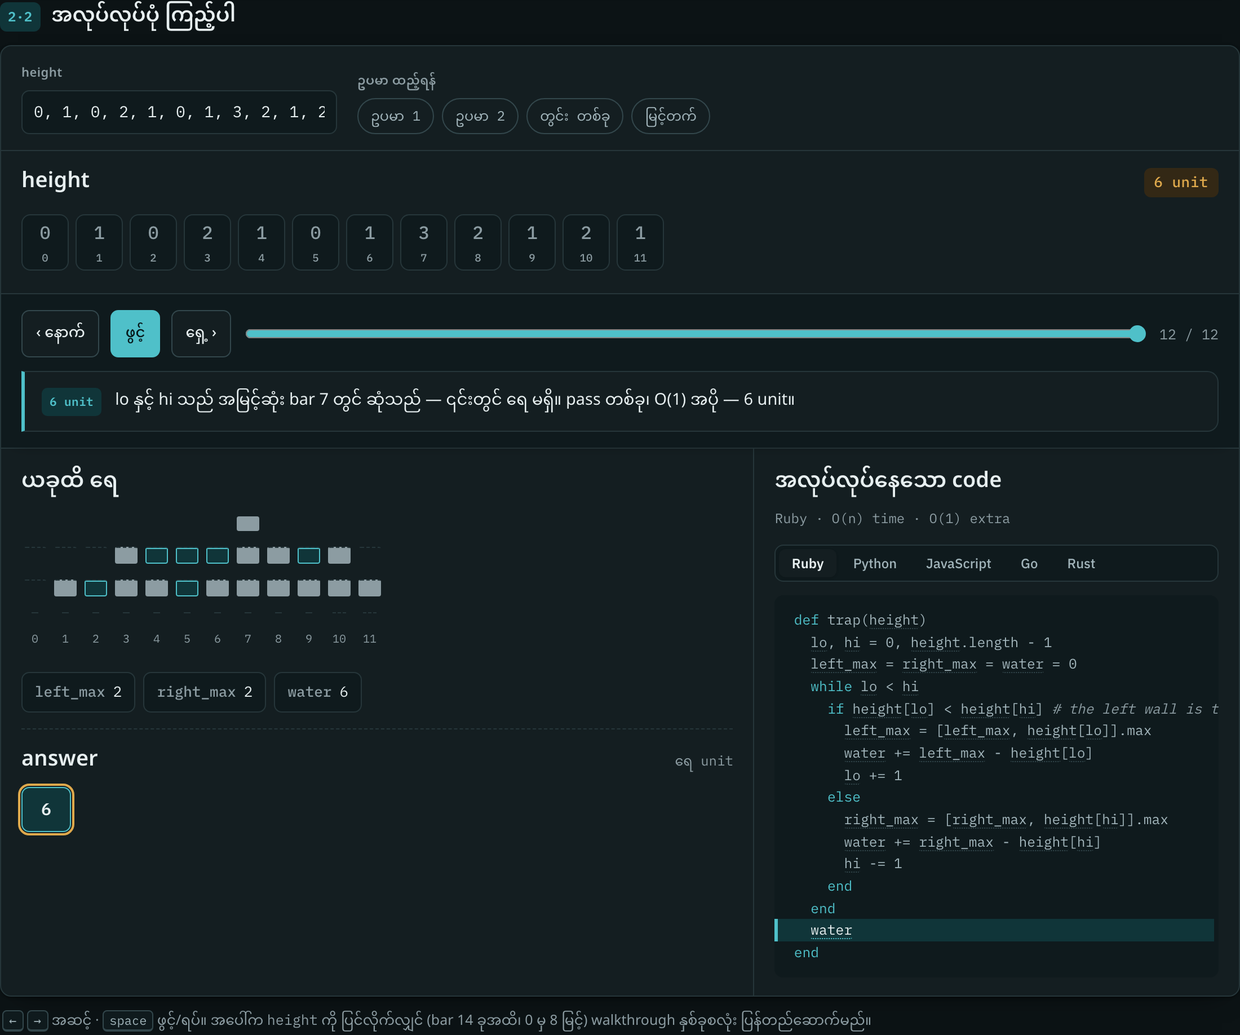
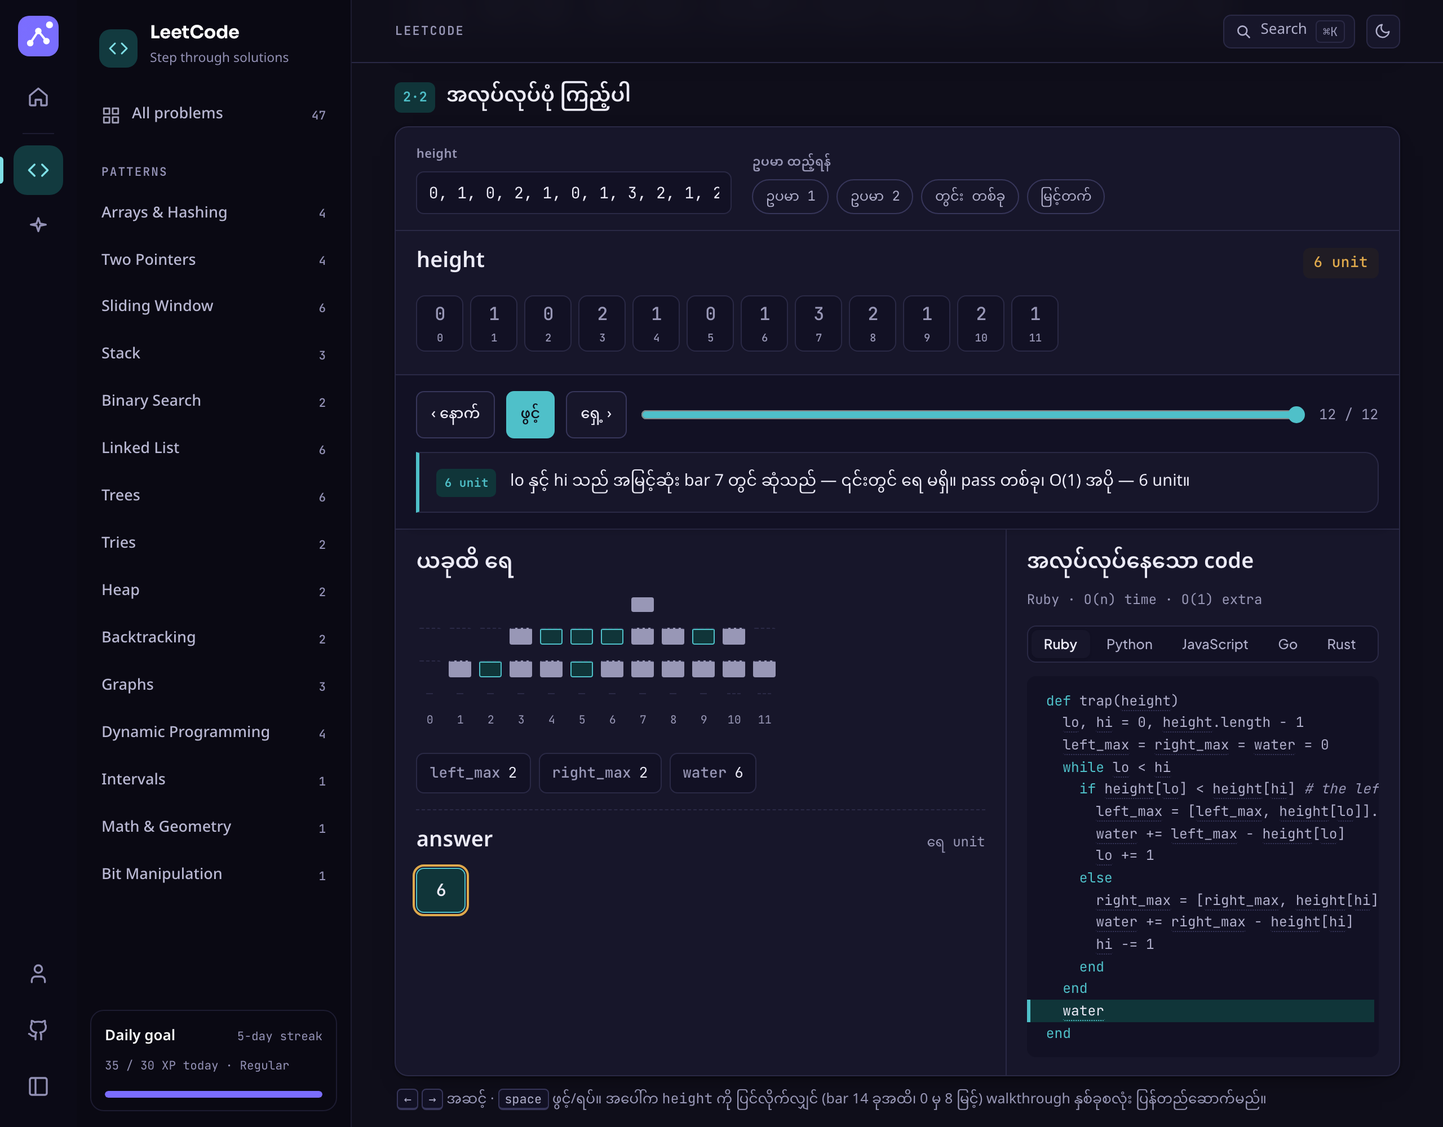
Rename the repo to learn; docs and screenshots for both sections (#20)
The repo is now github.com/devmtnaing/learn (GitHub redirects the old
leetcode-solutions URL).

- README: the site and its two sections, what each offers, how to run it,
  and a repo map. New screenshots in the current design: the hub, the
  problem list, a walkthrough, a question, Burmese, the AI path and a quiz.
- scripts/screenshots.mjs (npm run screenshots) retakes them from a build,
  in the dark theme at 2x, with sample progress.
- CONTRIBUTING: an intro to both sections, and a section on changing the
  AI Engineer course (markdown shape, estimates, quizzes, new sections).
- Repo URL in site.ts, package name, issue and PR templates. The Worker
  keeps its name so the custom domain is untouched.
- Track 1 is sky blue, so teal means LeetCode only; AI cards on the hub
  use the section's indigo. Answered quiz options stay readable.

npm run check and npm run audit pass.

diff --git a/src/styles/ai.css b/src/styles/ai.css
@@ -20,6 +20,7 @@
 }
 .tc-slate{--c:#5F6B85;--ce:#46506A;--cs:#E9ECF3;--ct:#3D465C}
 .tc-teal{--c:#0B7077;--ce:#08545A;--cs:#DCF1F0;--ct:#08545A}
+.tc-sky{--c:#0369A1;--ce:#075985;--cs:#E0F2FE;--ct:#075985}
 .tc-indigo{--c:#5141E0;--ce:#3A2DB8;--cs:#ECEBFF;--ct:#3A2DB8}
 .tc-rose{--c:#C2346A;--ce:#962550;--cs:#FDE8EF;--ct:#962550}
 .tc-amber{--c:#B4650A;--ce:#8A4C06;--cs:#FDF0DC;--ct:#7F4605}
@@ -27,6 +28,7 @@
   :root:not([data-theme="light"]){--xp:#F5B03C;--streak:#F2784F;--ok-edge:#2E8F62;--bad-edge:#B0533F}
   :root:not([data-theme="light"]) .tc-slate{--c:#8792AE;--ce:#5F6B85;--cs:#232838;--ct:#B5BDD2}
   :root:not([data-theme="light"]) .tc-teal{--c:#4FC0C9;--ce:#2A8F97;--cs:#103539;--ct:#6FD3DA}
+  :root:not([data-theme="light"]) .tc-sky{--c:#5CC3F2;--ce:#2B8FC0;--cs:#0C2D3F;--ct:#7FD3F7}
   :root:not([data-theme="light"]) .tc-indigo{--c:#A39AFF;--ce:#6E61E6;--cs:#25204F;--ct:#BDB6FF}
   :root:not([data-theme="light"]) .tc-rose{--c:#F27AA3;--ce:#C2346A;--cs:#3A1726;--ct:#F7A6C2}
   :root:not([data-theme="light"]) .tc-amber{--c:#F0A93E;--ce:#B4650A;--cs:#3A2A10;--ct:#F7C46E}
@@ -34,6 +36,7 @@
 :root[data-theme="dark"]{--xp:#F5B03C;--streak:#F2784F;--ok-edge:#2E8F62;--bad-edge:#B0533F}
 :root[data-theme="dark"] .tc-slate{--c:#8792AE;--ce:#5F6B85;--cs:#232838;--ct:#B5BDD2}
 :root[data-theme="dark"] .tc-teal{--c:#4FC0C9;--ce:#2A8F97;--cs:#103539;--ct:#6FD3DA}
+:root[data-theme="dark"] .tc-sky{--c:#5CC3F2;--ce:#2B8FC0;--cs:#0C2D3F;--ct:#7FD3F7}
 :root[data-theme="dark"] .tc-indigo{--c:#A39AFF;--ce:#6E61E6;--cs:#25204F;--ct:#BDB6FF}
 :root[data-theme="dark"] .tc-rose{--c:#F27AA3;--ce:#C2346A;--cs:#3A1726;--ct:#F7A6C2}
 :root[data-theme="dark"] .tc-amber{--c:#F0A93E;--ce:#B4650A;--cs:#3A2A10;--ct:#F7C46E}
@@ -345,3 +348,7 @@ a.s{text-decoration:none;color:var(--ink)}
 .plan-title{font-family:var(--display);font-size:18px;margin-top:4px}
 .plan-main small{color:var(--muted);line-height:1.5}
 .linkish{background:none;border:0;padding:0;font:inherit;color:var(--accent);font-weight:600;cursor:pointer;text-decoration:underline}
+
+/* answered options stay readable; only the ones not picked step back a little */
+.option:disabled{color:var(--ink-2)}
+.option.right:disabled,.option.wrong:disabled{color:var(--ink)}

diff --git a/src/lib/ai/course.ts b/src/lib/ai/course.ts
@@ -50,7 +50,7 @@ const block = (md: string) =>
 
 const TRACKS = [
   { id: 'setup', slug: 'setup', file: '00-setup/README.md', title: 'Setup', short: 'Setup', subtitle: 'Tools, GPUs and notes. Week 0.', color: 'slate', heading: /^## (?!Checkpoint)(\d+)\. (.+)$/ },
-  { id: 't1', slug: 'track-1', file: 'track-1-ai-application-engineer/README.md', title: 'AI Application Engineer', short: 'Track 1', subtitle: 'Use models well: APIs, RAG, agents, MCP, evals.', color: 'teal', heading: /^## (1\.\d+) (.+)$/ },
+  { id: 't1', slug: 'track-1', file: 'track-1-ai-application-engineer/README.md', title: 'AI Application Engineer', short: 'Track 1', subtitle: 'Use models well: APIs, RAG, agents, MCP, evals.', color: 'sky', heading: /^## (1\.\d+) (.+)$/ },
   { id: 't2', slug: 'track-2', file: 'track-2-ml-systems-engineer/README.md', title: 'ML / AI Systems Engineer', short: 'Track 2', subtitle: 'Train, tune, optimise and serve models.', color: 'indigo', heading: /^### (2\.\d+) (.+)$/ },
   { id: 't3', slug: 'track-3', file: 'track-3-research-engineer/README.md', title: 'AI Research Engineer', short: 'Track 3', subtitle: 'Understand and improve models.', color: 'rose', heading: /^### (3\.\d+) (.+)$/ },
   { id: 'math', slug: 'math', file: 'math/README.md', title: 'Math Track', short: 'Math', subtitle: 'Runs alongside all three tracks.', color: 'amber', heading: /^## Level (\d): (.+)$/ },

diff --git a/src/components/ai/Rail.tsx b/src/components/ai/Rail.tsx
@@ -103,7 +103,7 @@ export default function Rail({ units, mode = 'ai' }: { units: UnitRef[]; mode?: 
               <i style={{ background: SECTION_COLOR.ai }} />
               <b>AI Engineer</b>
               <small>
-                {totalXp(p, 'ai')} XP · {streak(p, 'ai')}-day streak · {crownCount(p)} crowns
+                {totalXp(p, 'ai')} XP · {streak(p, 'ai')}-day streak · {crownCount(p)} {crownCount(p) === 1 ? 'crown' : 'crowns'}
               </small>
             </a>
           </div>

diff --git a/src/components/ai/JumpBackIn.tsx b/src/components/ai/JumpBackIn.tsx
@@ -26,7 +26,7 @@ export default function JumpBackIn({ units }: { units: UnitRef[] }) {
   if (next)
     cards.push({
       key: 'ai',
-      color: next.color,
+      color: 'indigo',
       kicker: 'AI Engineer · up next',
       title: next.moduleTitle,
       sub: `${next.trackShort} · ${next.moduleLabel} · ${next.label}`,

diff --git a/README.md b/README.md
@@ -1,18 +1,20 @@
-# LeetCode solution pages
+# learn
 
-**Live: [learn.devmtnaing.com](https://learn.devmtnaing.com).** Two sections share one site, one design and one progress record:
+**Live: [learn.devmtnaing.com](https://learn.devmtnaing.com).** A learning site with two sections that share one design and one progress record:
 
-- **[LeetCode](https://learn.devmtnaing.com/leetcode)**: open any problem and step through its solution.
-- **[AI Engineer](https://learn.devmtnaing.com/ai-engineer)**: a self-study path from backend engineer to AI research engineer, built from the markdown course in [`course/`](course/README.md), with quizzes, flashcards, XP and streaks.
+- **[LeetCode](https://learn.devmtnaing.com/leetcode)**: interview problems you can step through one state change at a time, with tested code in five languages.
+- **[AI Engineer](https://learn.devmtnaing.com/ai-engineer)**: a self-study path from backend engineer to AI research engineer, in three tracks, with quizzes, flashcards and portfolio projects.
 
-[![Lowest Common Ancestor, step 4 of 7: the tree with the call stack beside it and the Ruby line that is running highlighted](docs/screenshots/walkthrough.png)](https://learn.devmtnaing.com/leetcode/lowest-common-ancestor-of-a-binary-tree)
+[![The hub: jump back into the last LeetCode problem and the next AI Engineer step, a card for each section, and the week's XP by section](docs/screenshots/home.png)](https://learn.devmtnaing.com)
 
-Interactive solutions to interview problems. Each page quotes the problem,
-steps through the algorithm one state change at a time, and ends with complete
-solutions in Ruby, Python, JavaScript, Go and Rust. Every one of those
-solutions was run against thousands of cases before it was published.
+A section rail on the left switches between the sections; each section has its own menu. Progress, XP and streaks are kept per section and add up on the hub. ⌘K searches the section you are in. Light and dark themes; the LeetCode pages are also in မြန်မာ (Burmese). All screenshots here are in the dark theme.
 
-Every page follows the same three parts:
+## LeetCode
+
+Each page quotes the problem, steps through the algorithm one state change at a
+time, and ends with complete solutions in Ruby, Python, JavaScript, Go and
+Rust. Every one of those solutions was run against thousands of cases before it
+was published. Every page has the same three parts:
 
 1. **The question.** LeetCode's statement, quoted word for word, the worked
    examples, a small widget for the idea the statement hinges on, and the
@@ -24,22 +26,47 @@ Every page follows the same three parts:
 3. **The whole solution.** Paste-ready code for every approach and language,
    each with a badge saying exactly how it was checked.
 
-The pages are bilingual, English and မြန်မာ (Burmese), in a light and a dark
-theme. The screenshots below are all in the dark one.
+[![Lowest Common Ancestor, step 4 of 11: the tree with parents recorded, the stack, and the Ruby line that is running highlighted](docs/screenshots/walkthrough.png)](https://learn.devmtnaing.com/leetcode/lowest-common-ancestor-of-a-binary-tree?step=4)
 
-## Screenshots
+The list has 45 interview problems, 15 each of easy, medium and hard, chosen
+where three of LeetCode's own study plans agree ([how](docs/problem-list.md)),
+plus 2 from outside that list, grouped by pattern. Every one has a solution
+page. "Mark as solved" on a page ticks it on the list and earns LeetCode XP.
+
+[![The problem list: patterns in the section menu, a difficulty filter, solved problems ticked](docs/screenshots/problems.png)](https://learn.devmtnaing.com/leetcode)
 
 **The question.** The statement next to a widget for the one idea it turns on.
 
 [![The top of the Two Sum page: the statement on the left, a target slider on the right](docs/screenshots/question.png)](https://learn.devmtnaing.com/leetcode/two-sum)
 
-**The problem list.** 47 problems grouped by pattern, with search, a difficulty filter and ⌘K from any page.
-
-[![The home page: patterns down the side, problems with difficulty and acceptance rate](docs/screenshots/home.png)](https://learn.devmtnaing.com/leetcode)
-
 **In Burmese.** Trapping Rain Water with two pointers, finished.
 
-[![Trapping Rain Water with Burmese chrome and narration, the answer of 6 units filled in](docs/screenshots/burmese.png)](https://learn.devmtnaing.com/leetcode/trapping-rain-water?approach=pointers)
+[![Trapping Rain Water with Burmese narration, the answer of 6 units filled in](docs/screenshots/burmese.png)](https://learn.devmtnaing.com/leetcode/trapping-rain-water?approach=pointers)
+
+## AI Engineer
+
+A curriculum for a backend engineer moving into AI, in the order the jobs come:
+
+| Track | Goal | At the course's own pace (~13.5 h a week) |
+|---|---|---|
+| **1 · AI Application Engineer** | Use models well: APIs, RAG, agents, MCP, evals, agent frameworks, durable workflows | ~3.5–4 months |
+| **2 · ML / AI Systems Engineer** | Neural nets from scratch, transformers, fine-tuning, GPUs, inference, distributed training, Kubernetes | ~7–9 months |
+| **3 · AI Research Engineer** | Learning theory, scaling, RL and post-training, interpretability, reproducing papers | ~8–12 months, then ongoing |
+| **Math** | Three levels, each paired with a track | alongside |
+
+Every module has five steps: **concepts**, the **resources** to work through,
+hands-on **builds**, a **quiz** (with hearts and retries), and a **checkpoint**
+that earns a crown. You choose a study pace in hours a week, and every time
+estimate scales to it. Flashcards come back on a spaced schedule; the reading
+list has 57 papers in order; the projects are portfolio capstones with full
+specs.
+
+[![The Track 1 path: modules on a timeline, each with its five steps, the first one crowned](docs/screenshots/ai-path.png)](https://learn.devmtnaing.com/ai-engineer/track-1)
+
+[![A quiz question on retrieval, answered correctly, with the explanation](docs/screenshots/ai-quiz.png)](https://learn.devmtnaing.com/ai-engineer/track-1/1-4/quiz)
+
+The course itself is markdown in [`course/`](course/README.md), readable on its
+own. The pages are built from it, so editing a track's README updates the site.
 
 ## Run it
 
@@ -47,48 +74,43 @@ theme. The screenshots below are all in the dark one.
 npm install
 npm run dev        # http://localhost:4321
 npm run build      # static site in dist/
-npm run check      # structural check of every lesson
-npm run audit      # every built page in a real browser (after npm run build)
+npm run check      # structural check of every LeetCode lesson
+npm run audit      # every lesson, the hub and the AI pages in a real browser (after build)
+npm run verify -- <slug>   # rerun a lesson's listings in five languages
+npm run screenshots        # retake docs/screenshots (after build)
 npm run refresh-problems   # re-read titles, tags and acceptance rates from LeetCode
 ```
 
-The problem list has 45 interview problems, 15 each of easy, medium and hard,
-chosen where three of LeetCode's own study plans agree
-([how](docs/problem-list.md)), plus 2 from outside that list, grouped by
-pattern (Arrays & Hashing, Two Pointers, Trees, …). Every one of them has a
-solution page. To add a problem or fix a page, see
-[CONTRIBUTING.md](CONTRIBUTING.md).
+To add a LeetCode page or change the course, see [CONTRIBUTING.md](CONTRIBUTING.md).
 
 ## What is in the repo
 
 ```
-src/pages/index.astro           the hub: both sections
-src/pages/leetcode/index.astro  the problem list
-src/pages/leetcode/[slug].astro renders every lesson folder
-src/lessons/<slug>/             one folder per solution page
-src/pages/ai-engineer/          the AI Engineer path, module guides and lesson steps
-src/pages/profile.astro         progress across both sections
-course/                         the AI Engineer course as markdown (the pages read it at build)
-src/lib/ai/                     course parser, quizzes, flashcards, progress painter
-src/components/ai/              Preact islands: lesson steps, practice, profile, rail
-src/lib/progress.ts             progress, XP and streak for the whole site (localStorage)
-src/lib/                        the shared kit: stepper, stage shapes, trees, i18n
-src/styles/                     tokens (one design, a teal and an indigo accent), app shell, lessons, AI section
-scripts/check-lessons.mjs       structure and format check
-scripts/audit.mjs               drives every built page in Chromium
-scripts/refresh-problems.mjs    refreshes src/data/problems.json from LeetCode
-scripts/verify/                 runs every listing in five languages
-verify/<slug>/                  each lesson's test corpus and drivers
-docs/                           how the problem list was chosen; translation notes; screenshots
-wrangler.jsonc                  Cloudflare: serve dist/ at learn.devmtnaing.com
+src/pages/index.astro             the hub
+src/pages/profile.astro           progress, the study plan, export and import
+src/pages/leetcode/               the problem list and [slug].astro, which renders every lesson
+src/lessons/<slug>/               one folder per LeetCode solution page
+src/pages/ai-engineer/            AI Engineer overview, tracks, module guides, lesson steps, practice
+course/                           the AI Engineer course as markdown (the pages read it at build)
+src/lib/ai/                       course parser, quizzes, flashcards, the progress painter
+src/components/ai/                Preact islands: lesson steps, practice, profile, progress rail
+src/components/                   the shell: section rail, section menu, search, theme
+src/data/sections.ts              the sections and each one's menu
+src/lib/progress.ts               progress for the whole site: XP per section, streaks, pace
+src/lib/                          the LeetCode kit: stepper, stage shapes, trees, i18n
+src/styles/                       tokens (one design, a teal and an indigo accent), shell, lessons, AI
+scripts/                          lesson check, browser audit, verify, screenshots, problem refresh
+verify/<slug>/                    each lesson's test corpus and drivers
+docs/                             how the problem list was chosen, translation notes, screenshots
+wrangler.jsonc                    Cloudflare: serve dist/ at learn.devmtnaing.com
 ```
 
-The site is fully static: every page is prerendered and served as a file (the
-AI Engineer's interactive steps are small Preact islands on those pages), so
-there's no backend. A solution page is a folder of data and one step generator
-per approach. The kit supplies the transport, code panel, language switching
-and layout. Every lesson has a spec in `verify/`, so `npm run verify --
-<slug>` reruns exactly what its badges claim.
+The site is fully static: every page is prerendered and served as a file, and
+the interactive parts of the AI Engineer section are small Preact islands on
+those pages. Progress lives in the browser (`localStorage`); export it from the
+profile to move it. A LeetCode page is a folder of data and one step generator
+per approach, and the kit supplies the rest. Every lesson has a spec in
+`verify/`, so `npm run verify -- <slug>` reruns exactly what its badges claim.
 
 ## License
 

diff --git a/CONTRIBUTING.md b/CONTRIBUTING.md
@@ -1,4 +1,13 @@
-# Contributing a solution page
+# Contributing
+
+This repo is the site at [learn.devmtnaing.com](https://learn.devmtnaing.com),
+with two sections. Most of this guide is about the first:
+
+- **LeetCode solution pages** (`src/lessons/`): the rest of this guide.
+- **The AI Engineer course** (`course/` and `src/pages/ai-engineer/`): see
+  [Changing the AI Engineer course](#changing-the-ai-engineer-course) at the end.
+
+## Contributing a solution page
 
 The most useful contribution is a new solution page for a problem on the list
 that doesn't have one yet: any row on the problem list (`/leetcode`) marked *Solution coming
@@ -9,7 +18,7 @@ Before you start, open a page or two to see what one looks like:
 copy. Every page has the same parts in the same order — the layout comes from
 the shared kit, so you write content, not markup.
 
-## What a page promises
+### What a page promises
 
 A reader comes back to these pages to relearn a problem, watch it run, and copy
 code they can trust. So three rules are firm:
@@ -25,14 +34,14 @@ code they can trust. So three rules are firm:
   carries between steps, in the shape the code holds it: the map, the stack,
   the call stack. It isn't a cartoon of the idea.
 
-## You will need
+### You will need
 
 - Node 20+, Python 3.10+, Ruby 3
 - Docker, for Go and Rust. The verifier runs them in `golang:1.23-alpine` and
   `rust:1.98-slim`, and reports them as *skipped*, not passed, when Docker isn't
   running.
 
-## Building a page, step by step
+### Building a page, step by step
 
 A page is one folder, `src/lessons/<leetcode-slug>/`. The route finds it and
 the problem list links it automatically, so there is nothing else to register.
@@ -46,7 +55,7 @@ verify/<slug>/spec.py               the corpus, the oracle, the five drivers
 verify/<slug>/adapter.mjs           how the walkthrough reads a corpus line
 ```
 
-### 1. Get the problem exactly right
+#### 1. Get the problem exactly right
 
 Quote the statement, don't paraphrase it: readers will submit against the real
 one. LeetCode's GraphQL endpoint returns it without a key:
@@ -59,13 +68,13 @@ curl -s -X POST https://leetcode.com/graphql/ -H 'Content-Type: application/json
 `statement.html` holds the prose paragraphs only. Examples and constraints
 have their own components in `lesson.js` and `page.js`.
 
-### 2. Write the brute force first
+#### 2. Write the brute force first
 
 It is the reference everything else is checked against, so write it first and
 confirm it on the examples. Then write the better approach. Most pages show two
 (the brute force and the one worth learning); some show three.
 
-### 3. Write the listings as files, then generate the code table
+#### 3. Write the listings as files, then generate the code table
 
 Write each approach in each language as a plain file (`brute.rb`,
 `brute.py`, `brute.js`, `brute.go`, `brute.rs`, `hash.rb`, …) and mark each
@@ -85,7 +94,7 @@ and paste the `CODE` block into `lesson.js`. Don't retype listings: the
 verifier runs the text in `lesson.js`, and the generator strips the markers so
 that text is exactly the file you wrote.
 
-### 4. Write `lesson.js`
+#### 4. Write `lesson.js`
 
 Copy `src/lessons/two-sum/lesson.js` and replace its parts. It ends with one
 `mountLesson({...})` call. Keep that call last in the file, because it runs the
@@ -131,7 +140,7 @@ and calls get `cells(items, { wide: true })` and a board or matrix
 Give a failed comparison its own frame. The branch that *doesn't* fire is often
 the one worth seeing.
 
-### 5. Write `page.js`
+#### 5. Write `page.js`
 
 Every prop is required, and `npm run check` names any that are missing:
 `title`, `summary`, `eyebrow`, `lede`, `links`, `constraints`, `part1Sub`,
@@ -145,7 +154,7 @@ Traps are the places the statement trips people up: each one names what the
 wrong code returns, and you ran it to find out. Notes are questions a reader would ask
 ("Why check for the partner *before* storing?"), answered in a paragraph.
 
-### 6. Verify
+#### 6. Verify
 
 Write `verify/<slug>/spec.py`: `DRIVERS` (a program per language that reads
 one case per line and prints one answer per line, with `{SOL}` where the
@@ -174,7 +183,7 @@ Things that have bitten before:
 - Rust's `i32` overflows silently in release builds.
 - Go's `for range` over a map is randomly ordered.
 
-### 7. Check the page
+#### 7. Check the page
 
 ```sh
 npm run check        # structure: every key highlighted, every part present
@@ -192,7 +201,7 @@ finds and opens a page. What it cannot
 tell you is whether the page reads well — open it
 beside another one and look.
 
-## Burmese
+### Burmese
 
 Pages are bilingual, but **you don't need to write Burmese**. Any string can
 be plain English, or `t(english, burmese)` from `kit.js`. A missing Burmese side
@@ -203,7 +212,7 @@ If you do translate: keep code, identifiers, problem titles and terms of art
 translate idioms word for word. [docs/translation-review.md](docs/translation-review.md)
 collects phrasings a native reader should check. Help there is very welcome.
 
-## Pull request checklist
+### Pull request checklist
 
 - [ ] `npm run check` passes
 - [ ] `npm run verify -- <slug>` passes, with Go and Rust run (not skipped)
@@ -225,9 +234,39 @@ shared page code but neither the skill nor this guide, so a reviewer can ask
 whether the docs need to follow. A third job runs `npm run audit` over every
 page. Reading the page beside another one is still yours to do.
 
-## Using Claude Code
+### Using Claude Code
 
 The repo ships a project skill, `.claude/skills/leetcode-solution-page/`. In
 Claude Code, `/leetcode-solution-page <problem>` follows this guide end to end,
 verification included. It holds a contribution to the same standard as a
 hand-written one: the checklist above still applies.
+
+## Changing the AI Engineer course
+
+The course is plain markdown in [`course/`](course/README.md), and the pages
+under `/ai-engineer` are built from it at build time
+(`src/lib/ai/course.ts`), so a change to the markdown is a change to the site.
+
+- **Module text** lives in each track's README. A module is a heading
+  (`## 1.4 …` in Track 1, `### 2.7 …` in Tracks 2 and 3, `## Level 2: …` in
+  Math) with `**Why:**`, `**Concepts:**`, `**Learn**` (`- *Core:*` and
+  `- *Optional:*` items), `**Build**` (`- [ ]` items) and `**Checkpoint:**`.
+  Keep that shape: the parser turns each part into a step of the module.
+- **Time estimates** come from the weeks column of each track's module table.
+  They are weeks at ~13.5 hours a week; the site scales them to the reader's
+  chosen pace.
+- **Quizzes and flashcards** are in `src/lib/ai/quizzes.ts` and
+  `src/lib/ai/flashcards.ts`, keyed by module id (`t1-1.4`). A question names
+  its correct option and says why.
+- **Papers and projects** are `course/track-3-research-engineer/papers.md` and
+  `course/projects/README.md`.
+- **A new section** (another course next to LeetCode and AI Engineer) is one
+  entry in `src/data/sections.ts`, which gives it a rail icon and its own menu,
+  plus its pages.
+
+Checklist for a course change:
+
+- [ ] `npm run build` succeeds, and the module still shows all of its steps on its track page
+- [ ] `npm run audit` passes: it checks the hub and a sample of AI Engineer
+      pages for errors, overflow at 320 and 400px, and contrast in both themes
+- [ ] links you added open (resources are linked out, so check them)

diff --git a/.github/pull_request_template.md b/.github/pull_request_template.md
@@ -9,6 +9,7 @@
 - [ ] every badge says what was actually run; every trap output was produced by running it
 - [ ] `npm run build` succeeds, then `npm run audit -- <slug>` passes
 - [ ] opens on step 1, and reads well beside another page at the same width
+- [ ] **If this changes the AI Engineer course** (`course/`, `src/lib/ai/`, `src/pages/ai-engineer/`): `npm run build` and `npm run audit` pass, and new links open
 - [ ] **If this changes how every page is built** (`src/lib/`, `src/layouts/`, `lesson.css`, `kit.css`, `scripts/check-lessons.mjs`): I updated `.claude/skills/leetcode-solution-page/` (usually `references/lesson-kit.md`) and `CONTRIBUTING.md` to match, or this change doesn't affect how a page is made.
 
 See [CONTRIBUTING.md](../CONTRIBUTING.md) for what each item means.
